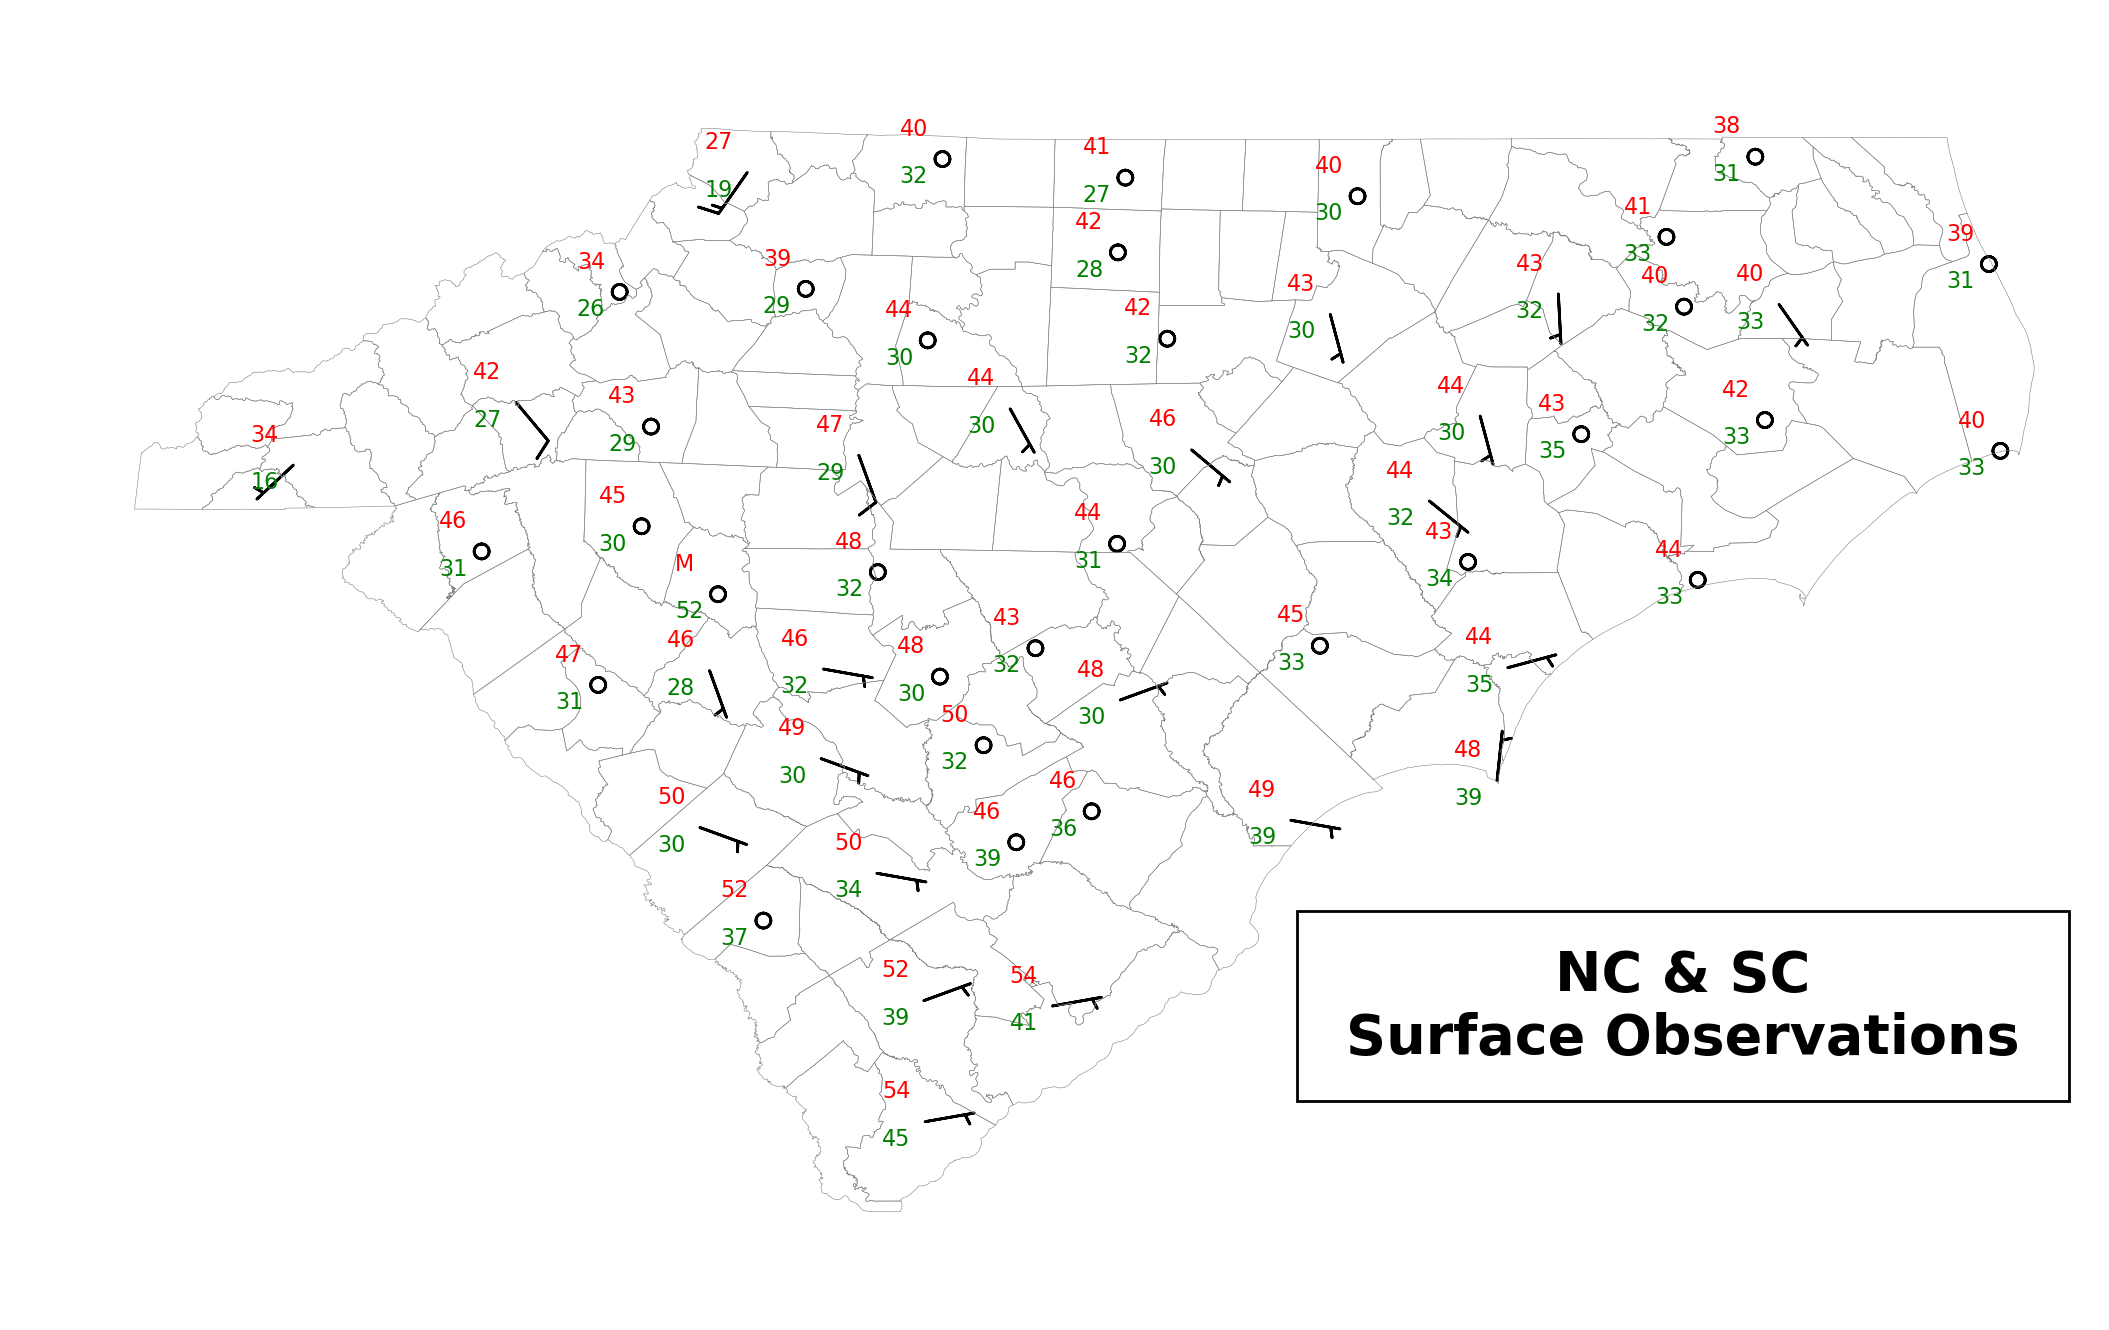
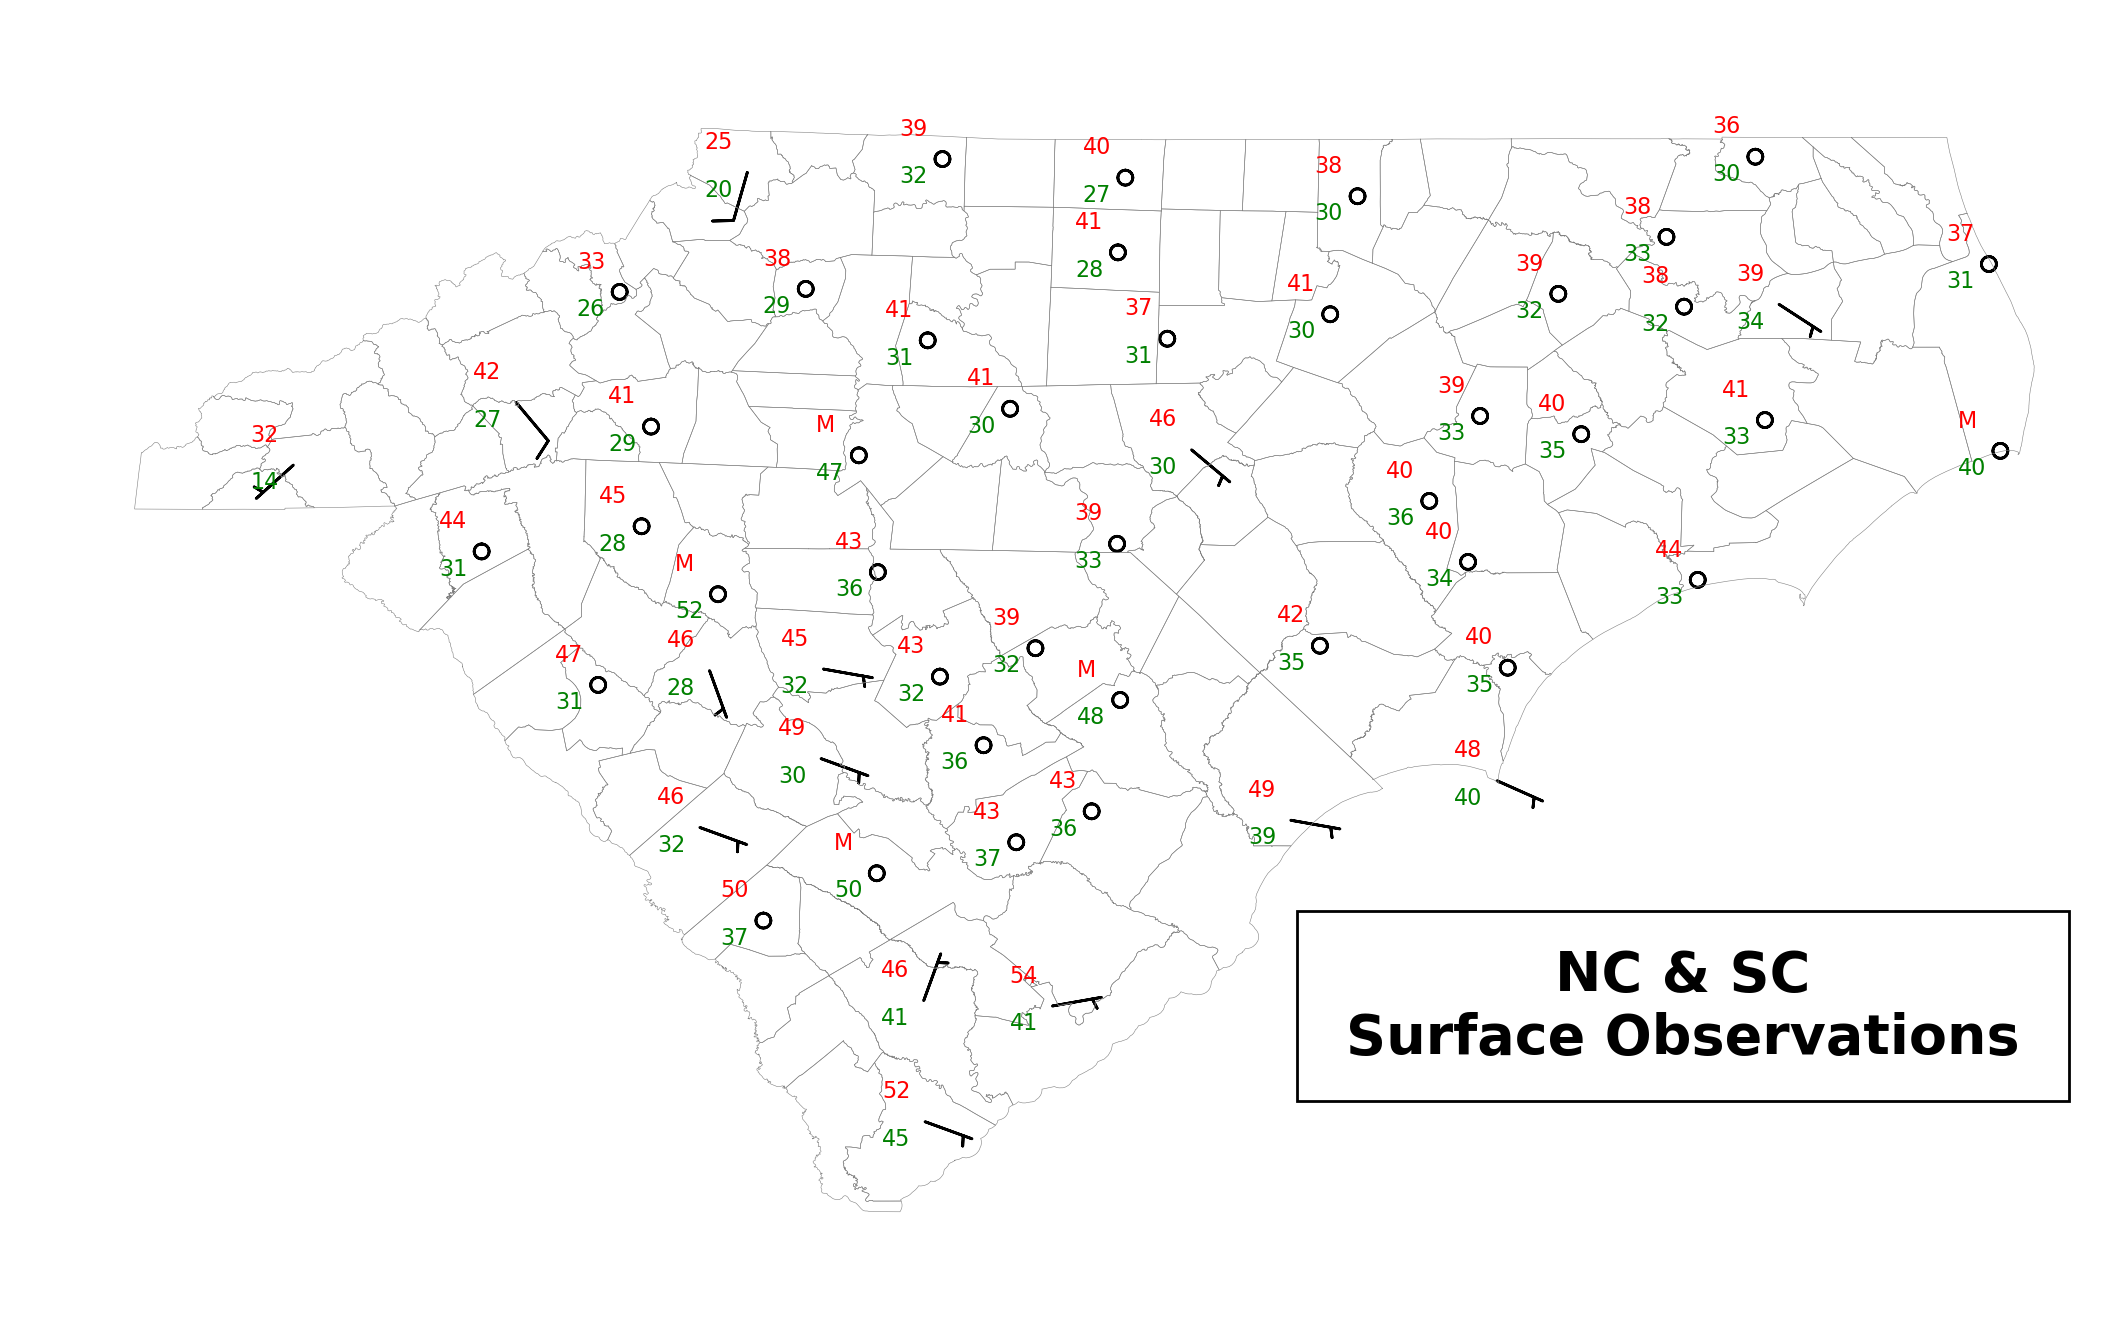
Style Changes

diff --git a/Mesonet.py b/Mesonet.py
@@ -554,7 +554,7 @@ def SoApps():
     ax = plt.subplot((111))
     #ax.set_facecolor('grey')
     ax.axis('off')
-    ax.barbs(x,y,u,v, length=4.5,color='black')
+    ax.barbs(x,y,u,v, length=5, linewidth=0.5,color='black')
     uf = len(plotdata)
     df = len(plotdew)
     hf = len(x)
@@ -564,9 +564,9 @@ def SoApps():
     print("Length x " + str(hf))
     print("Length y " + str(jf))
     for b in x:
-        plt.text((x[p])-0.2,(y[p])+0.1,plotdata[p],color='red',size=7)
+        plt.text((x[p])-0.2,(y[p])+0.1,plotdata[p],color='red',size=6)
         print("Temp " + str(p))
-        plt.text((x[p])-0.2,(y[p])-0.1,plotdew[p],color='green',size=7)
+        plt.text((x[p])-0.2,(y[p])-0.1,plotdew[p],color='green',size=6)
         p = p + 1
     ax.set(xlim=(-85.62, -77.83), ylim=(33.37, 39.49))
     plt.xlim(-85.62, -77.83)
@@ -602,7 +602,7 @@ def SoApps():
     #rect = patches.Rectangle((-78.9,32.5),3.6,0.8,linewidth=1,edgecolor='black',facecolor='none')
     #ax.add_patch(rect)
     
-    plt.text(-81.725,33,'Southern Appalachians Surface Observations\nAppalachianWX.com',color='black',size=9,ha='center')
+    plt.text(-81.725,33,'Southern Appalachians Surface Observations\nAppalachianWX.com',color='black',size=7,ha='center')
     plt.savefig("output/SoAppsSurfaceObs.png",bbox_inches='tight',dpi=200)
 
 
